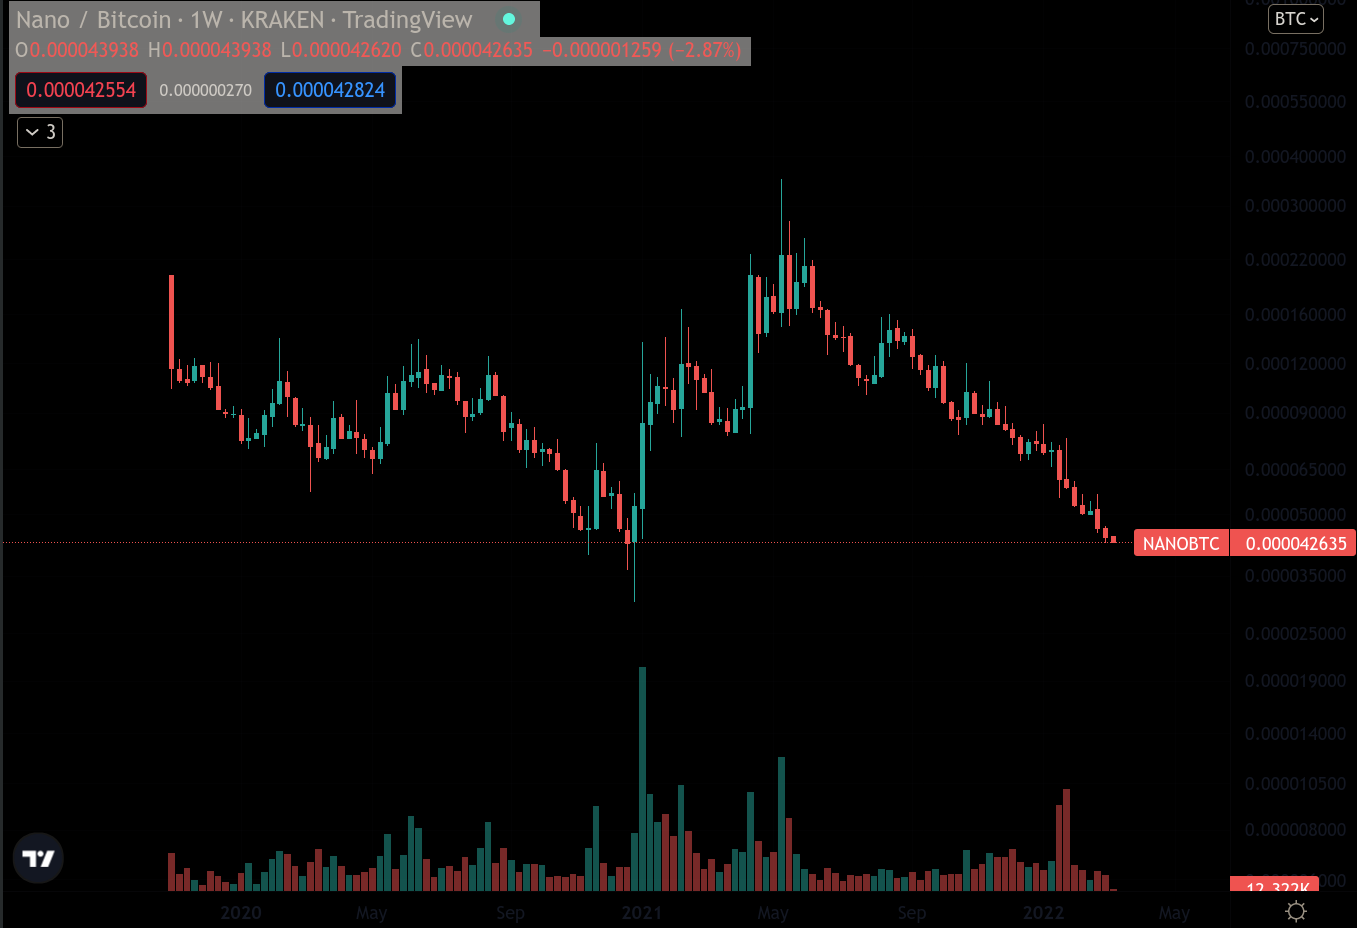
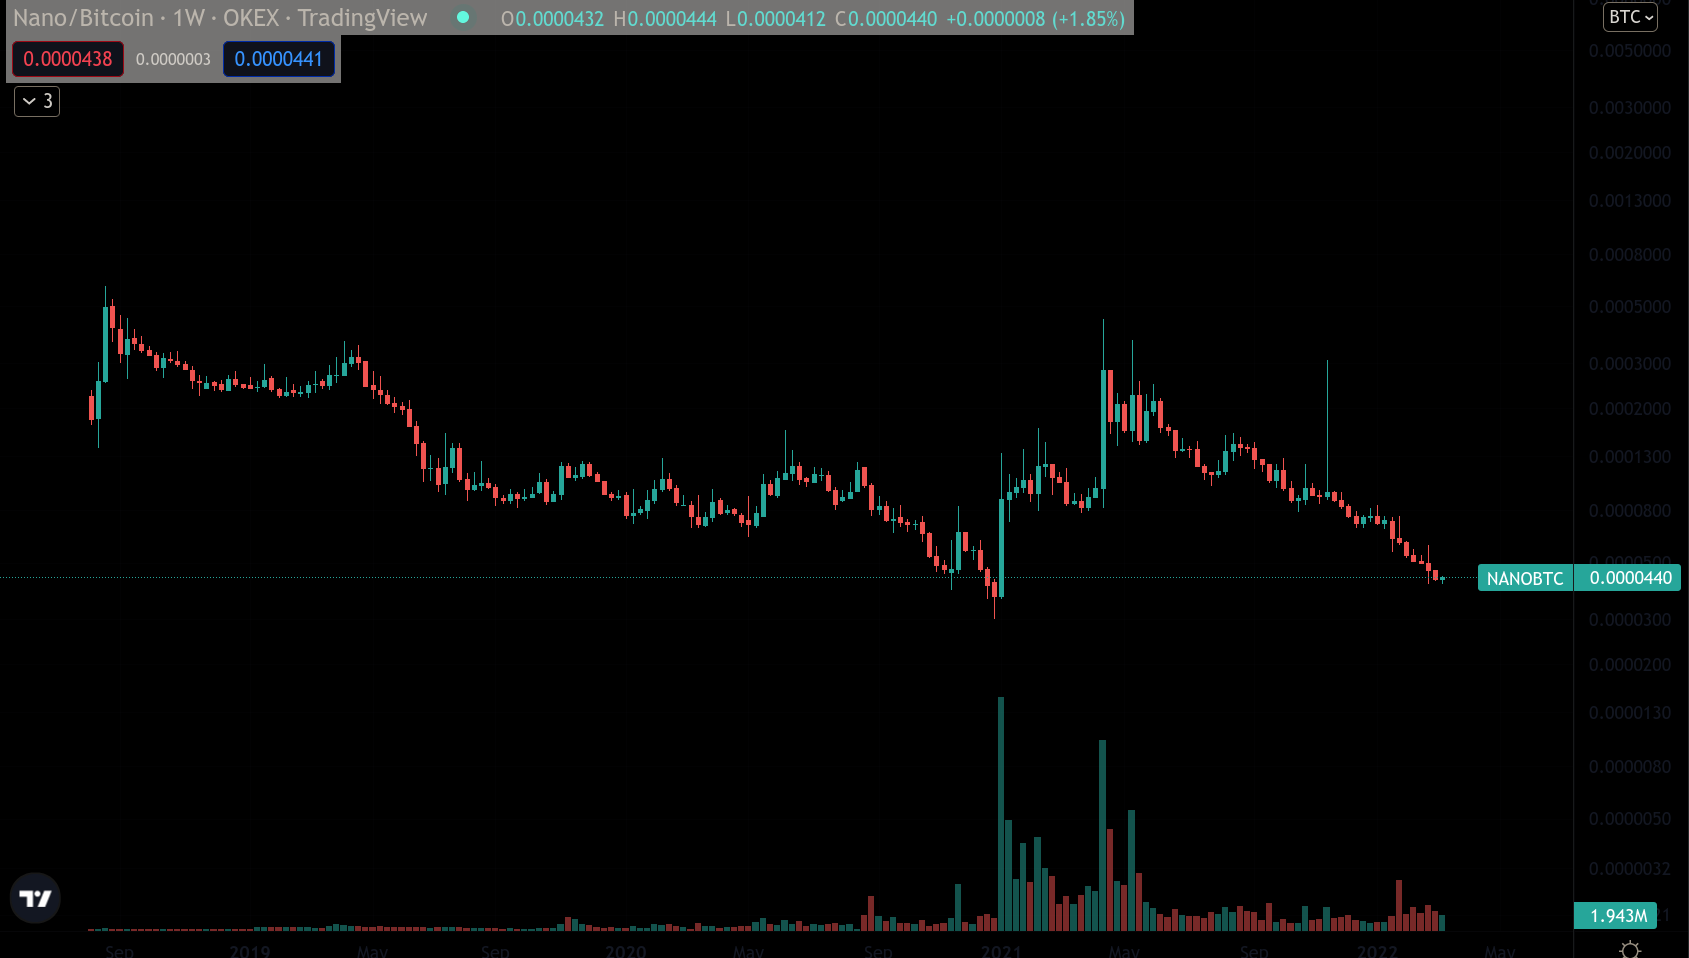
nanobtc chart

diff --git a/blog/evaluate_crypto_projects/article.md b/blog/evaluate_crypto_projects/article.md
@@ -390,7 +390,7 @@ In this section I want to highlight that when I refer to poor historical perform
 
 ![](assets/LTCBTC.png)
 
-- <span class="lc">**NANO/BTC**</span>, there was a period where holding it could've earned you a lot as opposed to holding BTC, but for the most part, the trend is down with the exception of that period. If you think this thing is going to take off, that's okay, but I personally don't see that happening for now and would rather hold BTC.
+- <span class="lc">**NANO/BTC**</span>, there was a period where holding it could've earned you a lot as opposed to holding BTC, but for the most part, the trend is down with the exception of that period. If you think this thing is going to take off, that's okay, but I personally don't see that happening for now and would rather hold BTC. The performance is clearly better than the previous two though!
 
 ![](assets/NANOBTC.png)
 
@@ -556,7 +556,7 @@ Moreover, the coming monetary policy changes to Ethereum after the London hardfo
 
 - <span class="lc">**Significant reduction of inflation with EIP-1559**</span>: In August 2021, an upgrade came into effect on the Ethereum network. This upgrade causes transaction fees to be removed from the supply as opposed to paid to miners. Given's Ethereum's use and demand for block space, the amount of ETH removed from the total supply was much more than expected. As it stands now, the total reduction of inflation since August 2021 has been of about ~70%, which is significantly more than a Bitcoin halving's reduction of inflation on BTC issuance. This supply shock has likely <span class="red">not been reflected on the price of ETH yet</span> given its strong correlation to BTC.
   
-- <span class="lc">**Further reduction of inflation after the merge**</span>: After the merge, inflation will be further reduced, as rewards to stakers have a much smaller rate of issuance as opposed to the traiditional block rewarded awarded to miners on proof of work. This means that there's a probability that 
+- <span class="lc">**Further reduction of inflation after the merge**</span>: After the merge, inflation will be further reduced, as rewards to stakers have a much smaller rate of issuance as opposed to the flat 2 ETH block rewarded awarded to miners on proof of work. The merge could even render the ETH inflation negative, leading to deflationary periods. This can be simulated in [this website](https://ultrasound.money)
 
 ***
 
